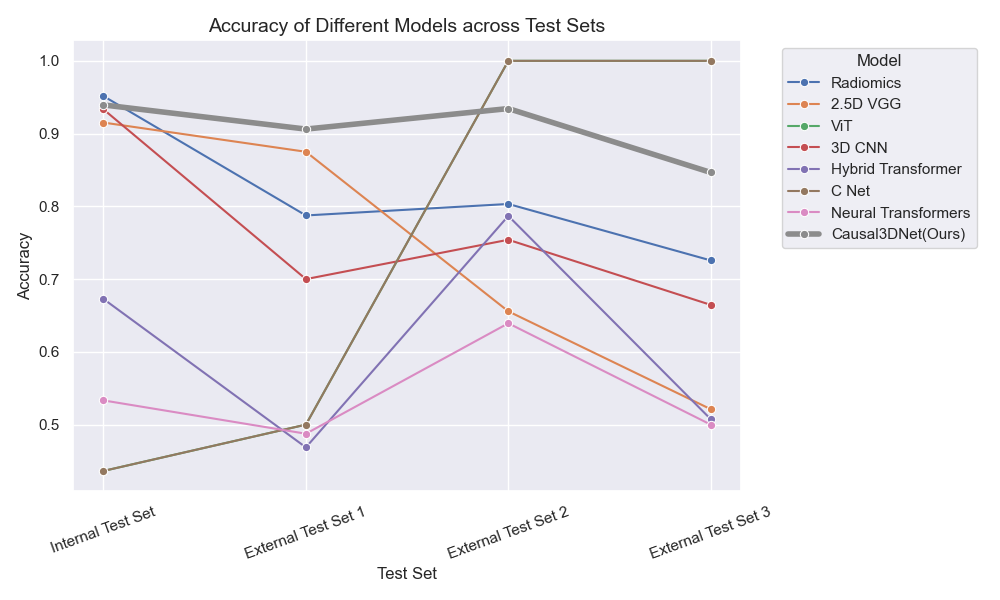
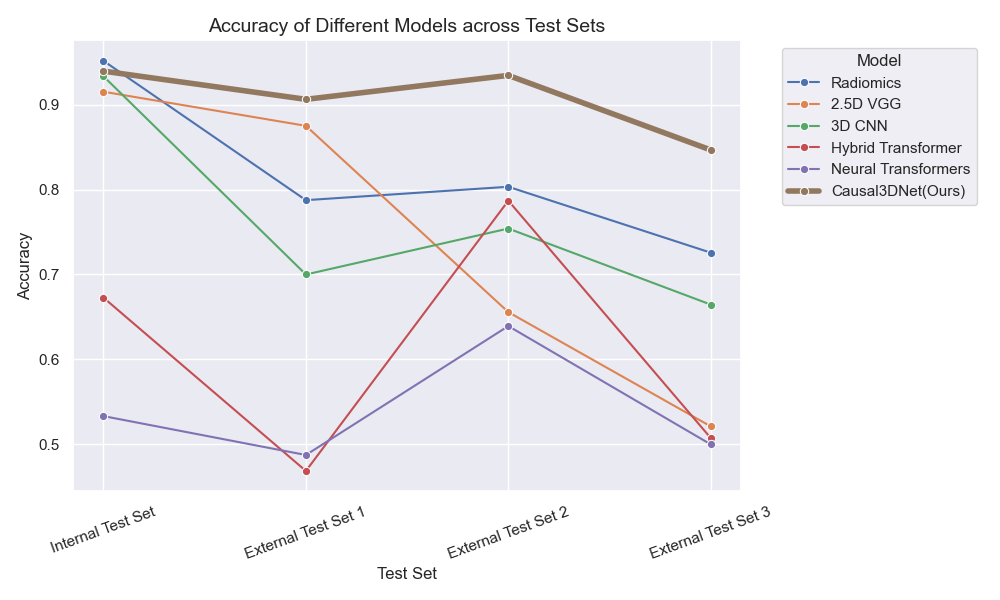
docs: del metrics

diff --git a/src/training/train_Causal3DNet.py b/src/training/train_Causal3DNet.py
@@ -263,6 +263,7 @@ def train_seg(train_excel,
 
 def train_Causal3DNet(train_excel: str, test_excel: str,
                       use_indi: int = 1, use_cent: int = 1,
+                      orthogonal: int = 1,
                       cuda_id: int =5,
                       output_dir: str = "/home/huangdn/Causal3D-Net/src/results",
                       model_weight: str = "/home/huangdn/Causal3D-Net/src/results/"
@@ -286,7 +287,9 @@ def train_Causal3DNet(train_excel: str, test_excel: str,
     logging.getLogger().addHandler(console)
 
     info_smg = (f"Using individual branch: {'Yes' if use_indi else 'No'}, "
-                f"center branch: {'Yes' if use_cent else 'No'} in causal module.")
+                f"center branch: {'Yes' if use_cent else 'No'}, "
+                f"orthogonal loss: {'Yes' if orthogonal else 'No'} in causal module.")
+
     logging.info(info_smg)
     batch_size = 8
     initial_lr = 1e-3
@@ -462,8 +465,10 @@ def train_Causal3DNet(train_excel: str, test_excel: str,
 
             if epoch >= mid_1_epochs:
                 alpha1 = min(1.0, (epoch - mid_1_epochs + 1) / mid_1_transition_epochs)
-                l_o_im = ort_criterion(classify_feature, individual_confounder) if use_indi else 0
-                l_o_cm = ort_criterion(classify_feature, center_confounder) if use_cent else 0
+                l_o_im = ort_criterion(classify_feature, individual_confounder) \
+                    if use_indi and orthogonal else 0
+                l_o_cm = ort_criterion(classify_feature, center_confounder) \
+                    if use_cent and orthogonal else 0
 
                 if epoch >= mid_2_epochs:
                     alpha2 = min(1.0, (epoch - mid_2_epochs + 1) / mid_2_transition_epochs)
@@ -712,6 +717,10 @@ if __name__ == '__main__':
                         default=1,
                         choices=[0, 1],
                         help="whether to use the center branch in causal methods")
+    parser.add_argument("--orth", type=float,
+                        default=1,
+                        choices=[0, 1],
+                        help="whether to use the orthogonal loss in causal methods")
     parser.add_argument("--cuda", type=int,
                         default=5,
                         required=False,
@@ -731,6 +740,7 @@ if __name__ == '__main__':
         test_excel=args.test,
         use_indi=args.indi,
         use_cent=args.cent,
+        orthogonal=args.orth,
         cuda_id=args.cuda,
         output_dir=args.outdir,
         model_weight=args.weight,
